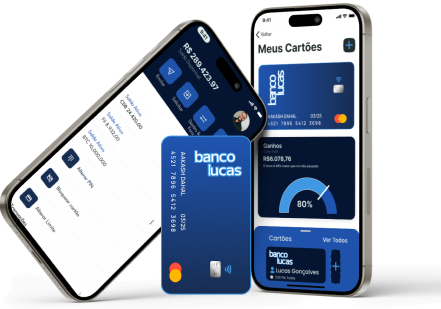
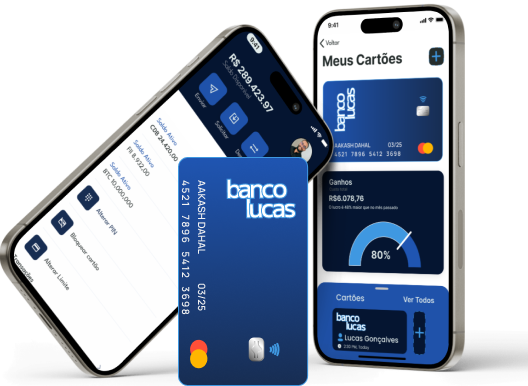
Design da secao de apps finalizado

diff --git a/index.html b/index.html
@@ -100,53 +100,53 @@
       </article>
       <article class="app-bg">
         <section class="app container">
-          <div>
-            <img src="./img/img-destaque/app.png" alt="" />
+          <div class="app-mockups">
+            <div><img src="./img/img-destaque/app.png" alt="" /></div>
             <div class="container-btn-app">
-              <a href=""
+              <a href="#"
                 ><button class="btn-app">
                   <img src="./img/icones/apple.svg" alt="" /> apple store
                 </button></a
               >
-              <a href=""
+              <a href="#"
                 ><button class="btn-app">
                   <img src="./img/icones/playstore.svg" alt="" /> google play
                 </button></a
               >
             </div>
           </div>
-          <div>
-            <span>FEITO PENSANDO EM VOCÊ</span>
-            <h2>Tudo o que você precisa na palma de sua mão</h2>
+          <div class="app-conteudo">
+            <span class="font-1-xs">FEITO PENSANDO EM VOCÊ</span>
+            <h2 class="font-1-xl">Tudo o que você precisa na palma de sua mão</h2>
             <div class="app-topicos">
               <div>
                 <img src="./img/icones/people.svg" alt="" />
-                <h3>Acompanhe sua conta</h3>
-                <p>
+                <h3 class="font-1-sb">Acompanhe sua conta</h3>
+                <p class="font-1-xs">
                   Acompanhar sua conta, fazer transferências e pagamentos de onde
                   estiver.
                 </p>
               </div>
               <div>
                 <img src="./img/icones/people.svg" alt="" />
-                <h3>Acompanhe sua conta</h3>
-                <p>
+                <h3 class="font-1-sb">Acompanhe sua conta</h3>
+                <p class="font-1-xs">
                   Acompanhar sua conta, fazer transferências e pagamentos de onde
                   estiver.
                 </p>
               </div>
               <div>
                 <img src="./img/icones/people.svg" alt="" />
-                <h3>Acompanhe sua conta</h3>
-                <p>
+                <h3 class="font-1-sb">Acompanhe sua conta</h3>
+                <p class="font-1-xs">
                   Acompanhar sua conta, fazer transferências e pagamentos de onde
                   estiver.
                 </p>
               </div>
               <div>
                 <img src="./img/icones/people.svg" alt="" />
-                <h3>Acompanhe sua conta</h3>
-                <p>
+                <h3 class="font-1-sb">Acompanhe sua conta</h3>
+                <p class="font-1-xs">
                   Acompanhar sua conta, fazer transferências e pagamentos de onde
                   estiver.
                 </p>

diff --git a/css/home/section-app.css b/css/home/section-app.css
@@ -1,13 +1,33 @@
-.app{
+.app-bg{
+    background: #F2F2F2;
     padding: 30px;
-    background-color: aqua;
+}
+.app{
+    background: #174B9F;
+    color: #F2F2F2;
     display: grid;
     grid-template-columns: 1fr 1fr;
     align-items: center;
+    justify-content: center;
+    border-radius: 50px;
+    padding: 60px;
+    
+}
+.app-mockups{
+    display: grid;
+    align-items: center;
+    justify-items: center;
+    gap: 30px;
+}
+.app-conteudo{
+    display: grid;
+    grid-template-columns: 1fr;
+    gap: 30px;
 }
 .app-topicos{
     display: grid;
     grid-template-columns: 1fr 1fr;
     align-items: center;
     justify-content: center;
+    gap: 40px;
 }

diff --git a/css/assets/utilidades/tipografia.css b/css/assets/utilidades/tipografia.css
@@ -1,8 +1,12 @@
 .font-1-xs{
   font: 300 1rem/1.2 'M PLUS 1', sans-serif;
 }
-.font-1-s{
+.font-1-s,
+.font-1-sb{
   font: 300 1.125rem/1.2 'M PLUS 1', sans-serif;
+}
+.font-1-sb{
+  font-weight: 500;
 }
 .font-1-m{
   font: 300 1.5rem/1.2 'M PLUS 1', sans-serif;
